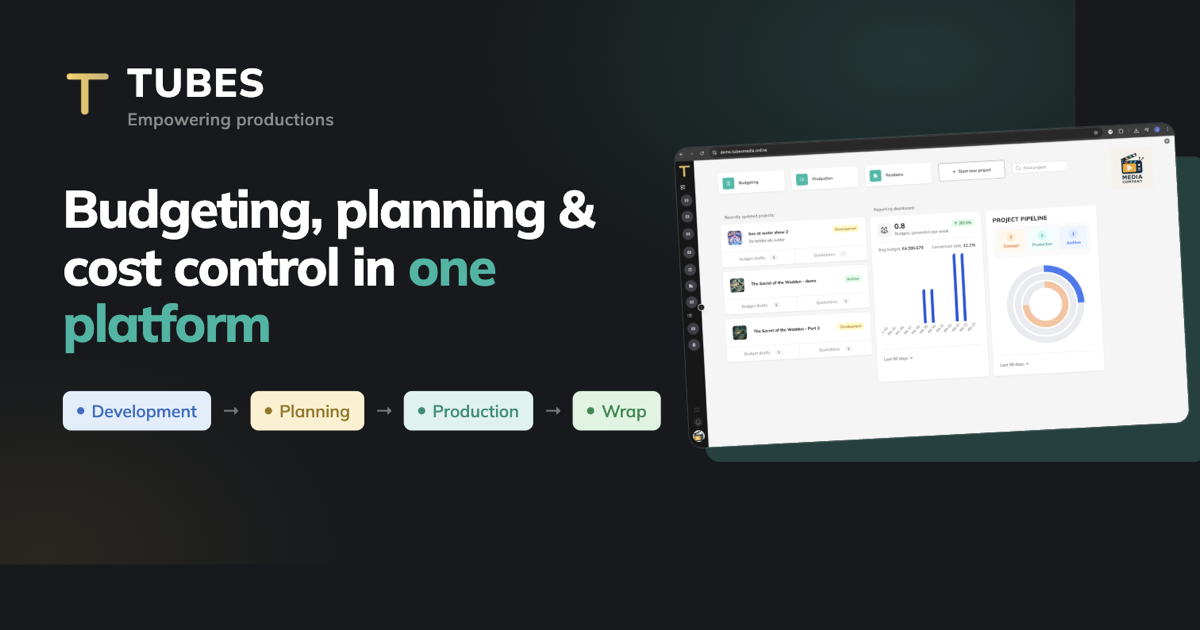
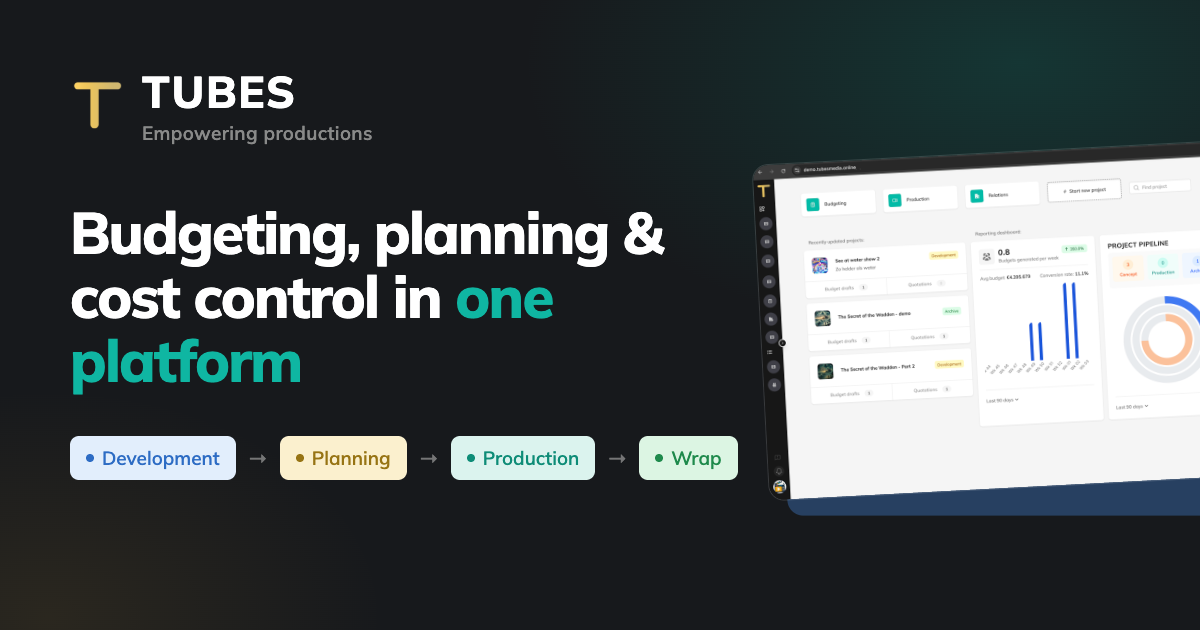
Partnerfeedback: lichtgroene vlakken en platen vervangen door lichtblauw
- Accentsecties, hero-platen (licht + donker), actieve menupil en
  icoontegels van lichtgroen naar lichtblauw (status-blauw familie)
- Donkergroen van knoppen, links en accentwoorden blijft ongewijzigd
- Deel-afbeelding opnieuw gemaakt met blauwe plaat
- CMS-labels geactualiseerd (Lichtblauw / Lichtgrijs)

Claude-Session: https://claude.ai/code/session_01NBpX6R7iW8oifi1M2jjusv

diff --git a/src/css/style.css b/src/css/style.css
@@ -207,7 +207,7 @@ a:hover { color: var(--action); }
   transition: background 0.15s ease, color 0.15s ease;
 }
 .site-nav a:hover { color: var(--ink); background: var(--divider); }
-.site-nav a.is-active { background: var(--action-soft); color: var(--action-soft-ink); }
+.site-nav a.is-active { background: #E2EEFC; color: var(--status-blue-ink); }
 
 .nav-toggle { display: none; background: none; border: 0; padding: 10px; cursor: pointer; }
 .nav-toggle-bar {
@@ -248,14 +248,14 @@ a:hover { color: var(--action); }
 .theme-dark a { color: #7BD9CC; }
 .theme-dark .button.button-secondary { background: transparent; color: #fff; border-color: rgba(255, 255, 255, 0.3); }
 .theme-dark .button.button-secondary:hover { border-color: #fff; color: #fff; }
-.theme-dark .hero-media::before { background: rgba(14, 156, 136, 0.32); }
-.theme-dark .hero-media::after { background: rgba(14, 156, 136, 0.13); }
+.theme-dark .hero-media::before { background: rgba(64, 128, 210, 0.38); }
+.theme-dark .hero-media::after { background: rgba(64, 128, 210, 0.16); }
 .theme-dark .hero-media img, .theme-dark .hero-media video { border-color: rgba(255, 255, 255, 0.14); }
 
 /* Derde achtergrondtint: zachte teal-wash, afgeleid van --action-soft */
-.theme-teal { background: #E3F3EE; border-top: 1px solid rgba(14, 140, 119, 0.10); border-bottom: 1px solid rgba(14, 140, 119, 0.10); }
-.theme-teal .card { background: var(--surface); border-color: rgba(14, 140, 119, 0.16); box-shadow: var(--shadow-card); }
-.theme-teal .kicker { color: var(--action-soft-ink); }
+.theme-teal { background: #E9F1FA; border-top: 1px solid rgba(45, 108, 196, 0.10); border-bottom: 1px solid rgba(45, 108, 196, 0.10); }
+.theme-teal .card { background: var(--surface); border-color: rgba(45, 108, 196, 0.16); box-shadow: var(--shadow-card); }
+.theme-teal .kicker { color: var(--status-blue-ink); }
 
 .section-hero { padding-top: clamp(44px, 6vw, 80px); overflow: hidden; }
 
@@ -266,7 +266,7 @@ a:hover { color: var(--action); }
   content: "";
   position: absolute; inset: 0; z-index: 1;
   transform: translate(22px, 22px) rotate(2deg);
-  background: var(--action-soft);
+  background: #D9E7F8;
   border-radius: var(--radius-card);
 }
 /* Tweede, verder liggende laag: geeft het gestapelde-panelen-effect diepte */
@@ -274,7 +274,7 @@ a:hover { color: var(--action); }
   content: "";
   position: absolute; inset: 0; z-index: 0;
   transform: translate(46px, 42px) rotate(4deg);
-  background: rgba(14, 156, 136, 0.09);
+  background: rgba(45, 108, 196, 0.09);
   border-radius: var(--radius-card);
 }
 .section-hero .hero-media img,
@@ -372,12 +372,12 @@ a:hover { color: var(--action); }
   display: flex; align-items: center; justify-content: center;
   width: 44px; height: 44px;
   border-radius: var(--radius-icon, 8px);
-  background: var(--action-soft);
+  background: #E2EEFC;
   margin-bottom: 18px;
 }
 .icon-tile i {
   display: block; width: 20px; height: 20px;
-  background: var(--action-soft-ink);
+  background: var(--status-blue-ink);
   mask: var(--icon) center / contain no-repeat;
   -webkit-mask: var(--icon) center / contain no-repeat;
 }
